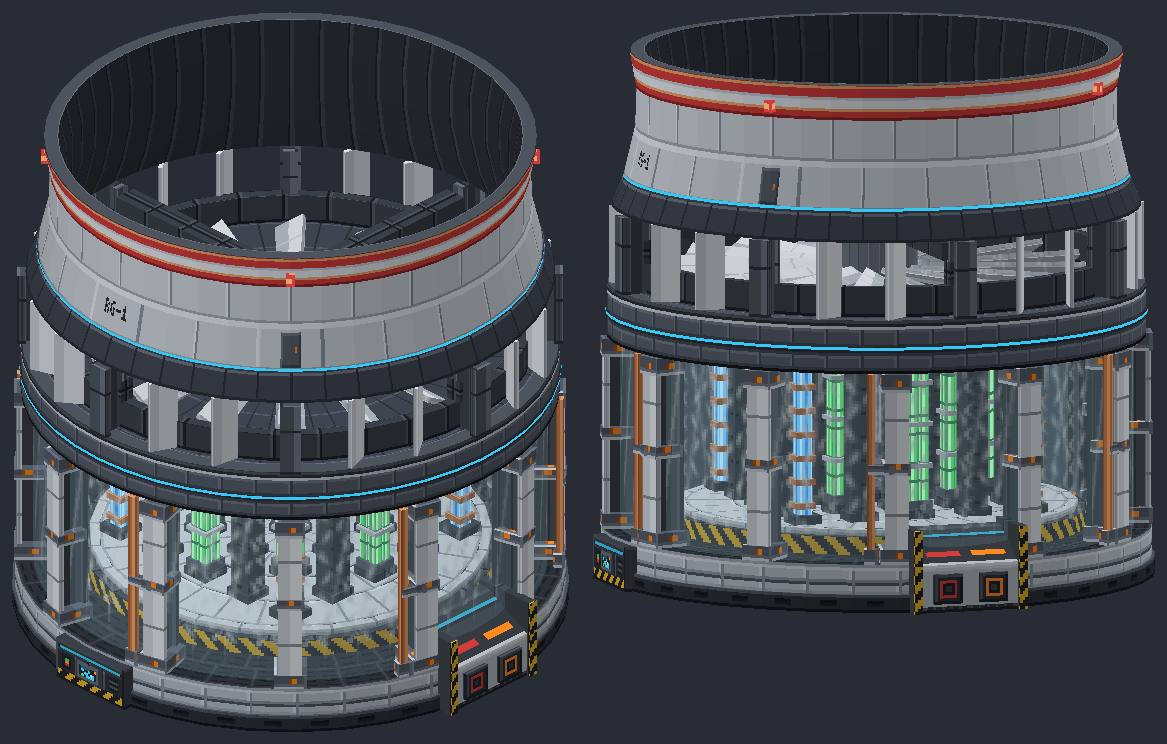
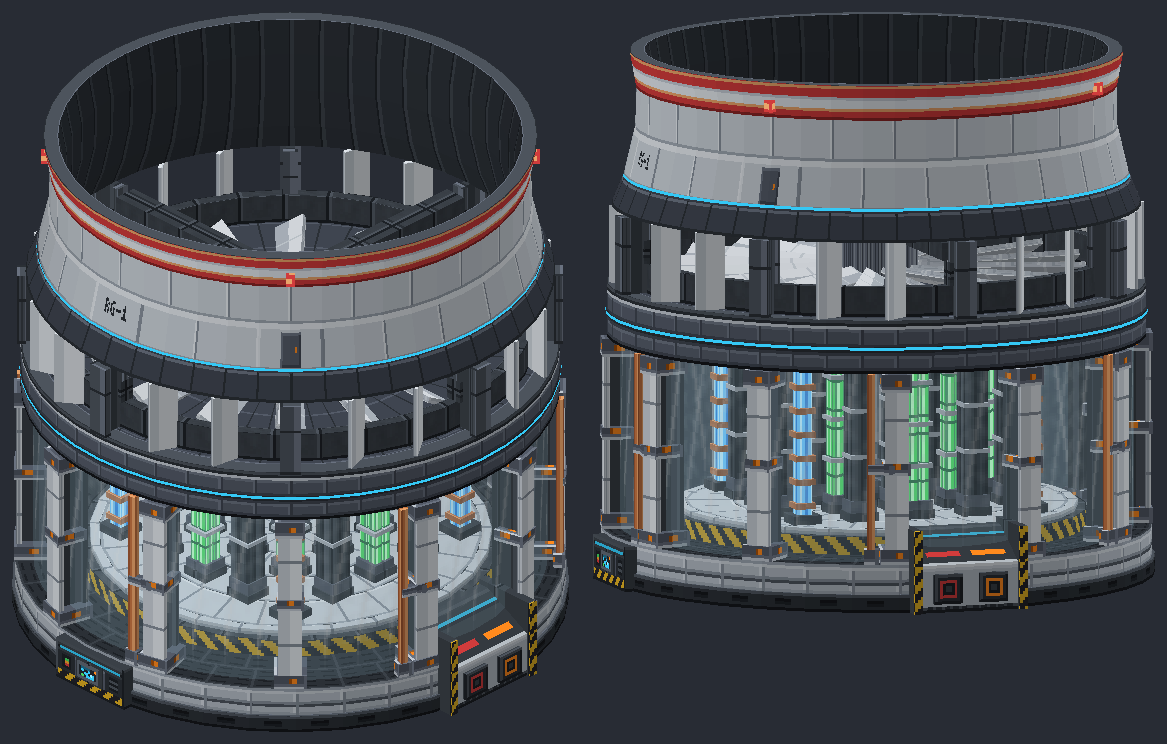
Station: moderator columns built like the other rods, three keyed graphite bricks banded with steel on an end fitting with a cap

diff --git a/mod/src/main/java/com/ryzer/ryzergen/client/StationRenderer.java b/mod/src/main/java/com/ryzer/ryzergen/client/StationRenderer.java
@@ -171,7 +171,16 @@ public class StationRenderer implements BlockEntityRenderer<StationCoreBlockEnti
                 }
                 case MODERATOR -> {
                     if (!item.isEmpty()) {
-                        quads.addAll(StationGeometry.box(x - 4, 27, z - 4, x + 4, 80, z + 4, MODERATOR, false));
+                        // Three graphite bricks keyed into a column, a steel band in each joint, on an
+                        // end fitting with a cap, as the fuel's bundles stand.
+                        quads.addAll(StationGeometry.box(x - 4.5F, 27, z - 4.5F, x + 4.5F, 31, z + 4.5F, NOZZLE, false));
+                        for (float[] brick : MODERATOR_BRICKS) {
+                            quads.addAll(StationGeometry.box(x - 4, brick[0], z - 4, x + 4, brick[1], z + 4, MODERATOR, false));
+                        }
+                        for (float y : new float[] {45, 60.5F}) {
+                            quads.addAll(StationGeometry.box(x - 4.5F, y, z - 4.5F, x + 4.5F, y + 1.5F, z + 4.5F, SPACER, false));
+                        }
+                        quads.addAll(StationGeometry.box(x - 4.5F, 76, z - 4.5F, x + 4.5F, 80, z + 4.5F, NOZZLE, false));
                     }
                 }
                 case CONTROL -> {
@@ -193,6 +202,9 @@ public class StationRenderer implements BlockEntityRenderer<StationCoreBlockEnti
         }
         return quads;
     }
+
+    /** The moderator column's graphite bricks, bottom and top in pixels (art/tools/fission_concept.py). */
+    private static final float[][] MODERATOR_BRICKS = {{31, 45}, {46.5F, 60.5F}, {62, 76}};
 
     /** A rod's length from the pedestal to the reactor head, in pixels: half of it sinks when lowered. */
     private static final float ROD_LENGTH = 53;

diff --git a/art/tools/fission_concept.py b/art/tools/fission_concept.py
@@ -191,9 +191,14 @@ LAYOUT = [
 #   F fuel: a bundle of four green-glowing pins held by bright spacer grids, with end fittings,
 #     as real fuel assemblies are built
 #   C coolant: a column of water glowing Cherenkov blue, in copper hoops, with steam rising off it
-#   M moderator: a graphite column with bore holes
+#   M moderator: a column of graphite bricks keyed together, banded with steel between them, on
+#     an end fitting with a cap, as the fuel's bundles stand
 #   X control: a polished steel rod on a drive shaft, part way in (its depth marks show travel)
 d.group = 'rods'
+
+
+# The moderator's three graphite bricks, with a steel band in each gap between them.
+MODERATOR_BRICKS = ((31, 45), (46.5, 60.5), (62, 76))
 
 
 def rod(kind, x, z):
@@ -211,7 +216,12 @@ def rod(kind, x, z):
         for y in range(29, 79, 8):
             d.box('copper', x - 3.5, y, z - 3.5, x + 3.5, y + 2, z + 3.5)
     elif kind == 'M':
-        d.box('moderator', x - 4, 27, z - 4, x + 4, 80, z + 4, skip=('up',))
+        d.box('nozzle', x - 4.5, 27, z - 4.5, x + 4.5, 31, z + 4.5)
+        for y1, y2 in MODERATOR_BRICKS:
+            d.box('moderator', x - 4, y1, z - 4, x + 4, y2, z + 4, skip=('up', 'down'))
+        for y in (45, 60.5):
+            d.box('spacer', x - 4.5, y, z - 4.5, x + 4.5, y + 1.5, z + 4.5)
+        d.box('nozzle', x - 4.5, 76, z - 4.5, x + 4.5, 80, z + 4.5, skip=('up',))
     elif kind == 'X':
         d.box('control', x - 3, 44, z - 3, x + 3, 72, z + 3)
         d.box('spacer', x - 1, 72, z - 1, x + 1, 80, z + 1, skip=('up',))

diff --git a/art/tools/big_machine_textures.py b/art/tools/big_machine_textures.py
@@ -538,15 +538,12 @@ def cherenkov():
 
 
 def moderator():
-    # A graphite moderator column with its bore holes.
-    k = fill('S')
-    for y in range(16):
-        k[y][0] = 'b'
-        k[y][15] = 'T'
-    for y in (3, 11):
-        for x in (3, 4, 11, 12):
-            k[y][x] = 'U'
-    return letters(k)
+    # A graphite moderator brick's face, 8 across (the column is 8 wide): chamfered edges, lit on
+    # the left and shaded on the right, and a keyway groove down the middle, where real graphite
+    # bricks key into their neighbours. The same all the way down, so a brick of any height shows it
+    # whole; the bricks' joints are the steel bands between them.
+    cols = ['M', 'b', 'S', 'U', 'T', 'S', 'T', 'U']
+    return letters([[cols[x % 8] for x in range(16)] for _ in range(16)])
 
 
 def control():
